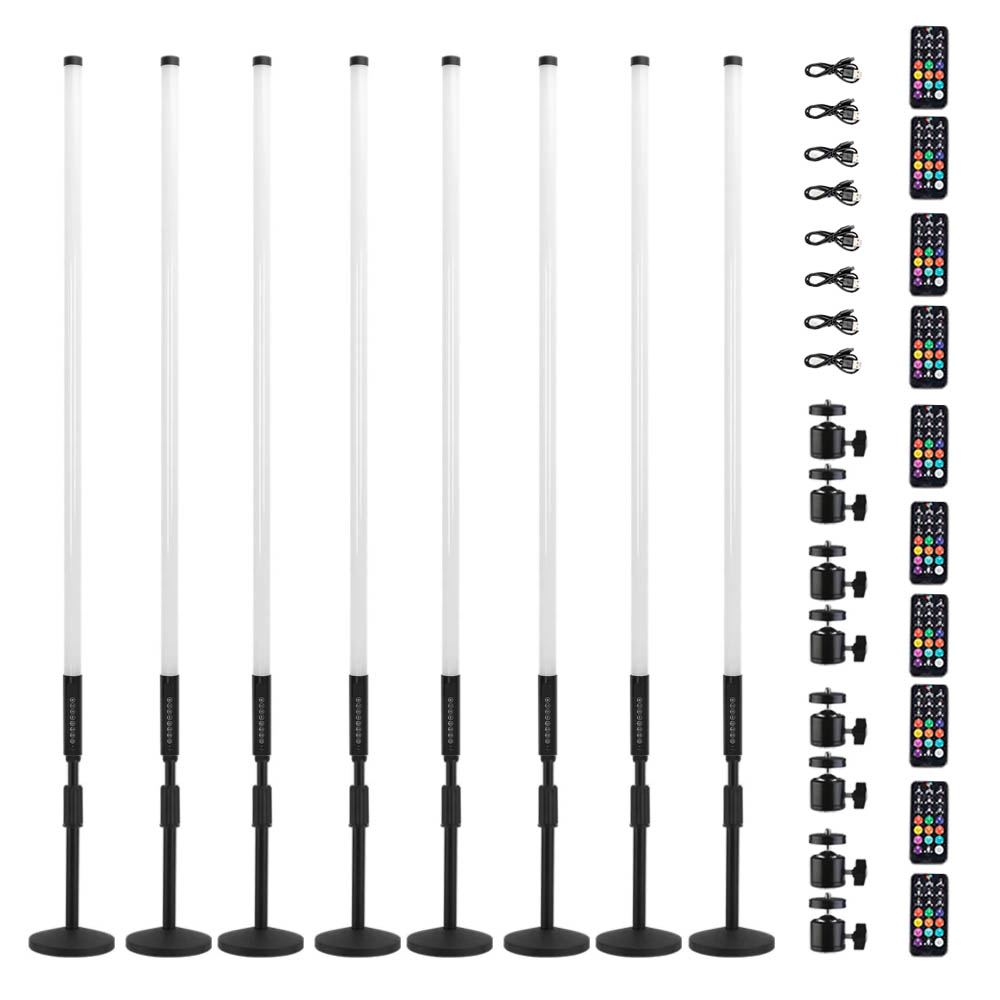
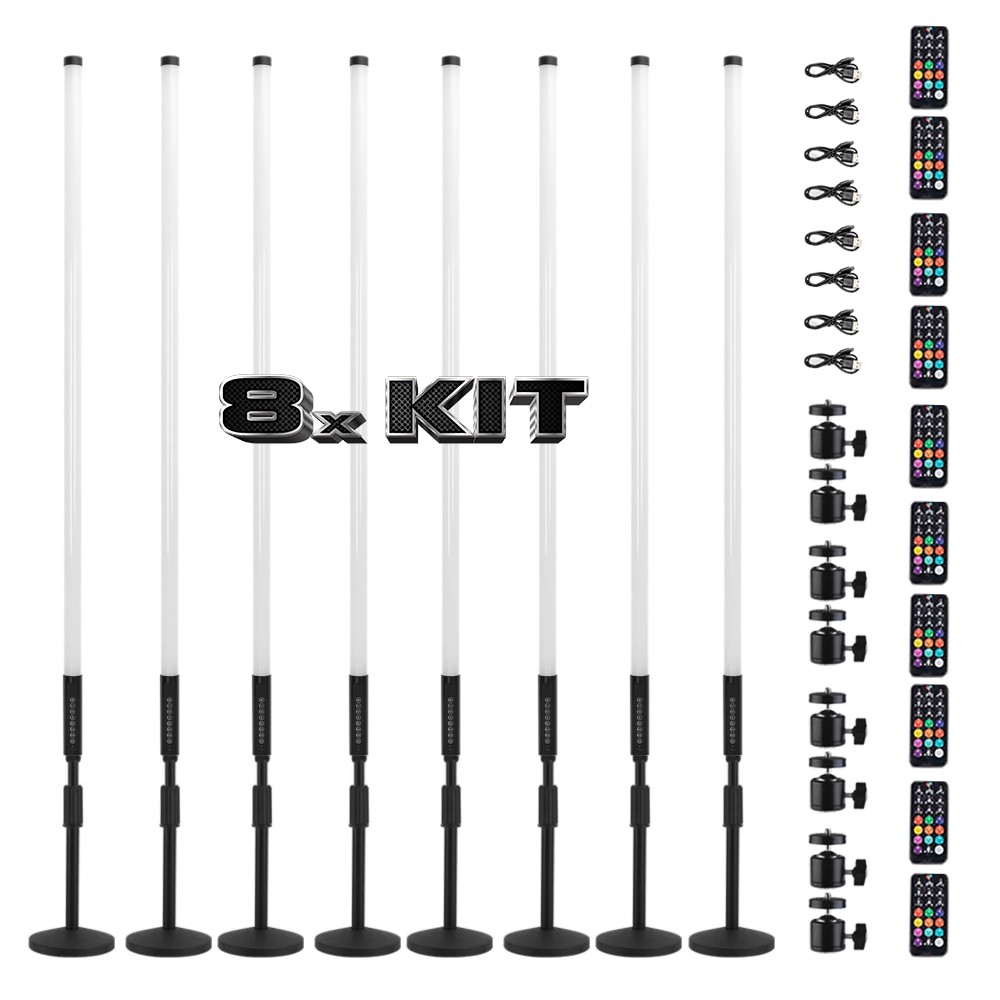
Add WLED product image; update 8-pack SFX photo

Changed region(s): [[0.217, 0.372, 0.589, 0.465]]

diff --git a/products.html b/products.html
@@ -404,14 +404,7 @@
       <!-- Kit 2: WLED DMX Tube -->
       <div class="product-card anim-fadeup anim-delay-3">
         <a class="product-img" href="wled-tube.html">
-          <div class="img-placeholder-icon">
-            <svg viewBox="0 0 24 24" xmlns="http://www.w3.org/2000/svg">
-              <rect x="3" y="3" width="18" height="18" rx="1"/>
-              <circle cx="8.5" cy="8.5" r="1.5"/>
-              <polyline points="21 15 16 10 5 21"/>
-            </svg>
-          </div>
-          <span class="img-placeholder-label">Product image</span>
+          <img src="img/wled.jpg" alt="WLED DMX RGBW Tube Kit" style="width:100%;height:100%;object-fit:cover;display:block;" />
         </a>
         <div class="product-info">
           <span class="product-badge">In Stock</span>

diff --git a/wled-tube.html b/wled-tube.html
@@ -452,14 +452,7 @@
       <div class="product-card anim-fadeup anim-delay-1">
 
         <div class="product-img">
-          <div class="img-placeholder-icon">
-            <svg viewBox="0 0 24 24" xmlns="http://www.w3.org/2000/svg">
-              <rect x="3" y="3" width="18" height="18" rx="1"/>
-              <circle cx="8.5" cy="8.5" r="1.5"/>
-              <polyline points="21 15 16 10 5 21"/>
-            </svg>
-          </div>
-          <span class="img-placeholder-label">Product image</span>
+          <img src="img/wled.jpg" alt="WLED DMX RGBW Tube Kit" style="width:100%;height:100%;object-fit:cover;display:block;" />
         </div>
 
         <div class="product-info">
